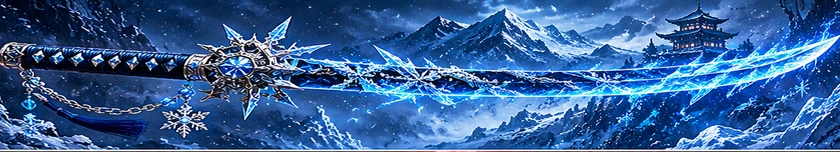
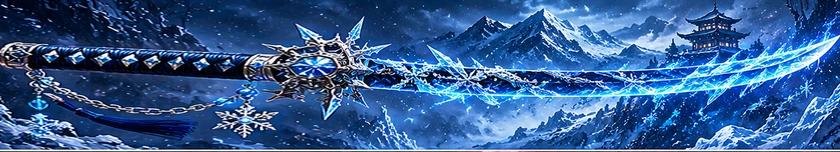
Refine model-specific blade masks and verify every animation variant

diff --git a/tests/unit/test_katana_widget.py b/tests/unit/test_katana_widget.py
@@ -369,3 +369,31 @@ async def test_profile_upgrade_uses_same_animation_without_repeating_economy():
     service.upgrade_katana.assert_awaited_once_with(7)
     send.assert_awaited_once()
     assert send.call_args.kwargs['animate'] is True
+
+
+@pytest.mark.asyncio
+async def test_cancelled_request_keeps_render_slot_until_thread_finishes():
+    import asyncio
+    import threading
+    from src.bot.presenters.katana_presenter import render_receipt
+    started = threading.Event()
+    finish = threading.Event()
+    def render(_):
+        started.set()
+        finish.wait(timeout=5)
+        return b'done'
+    semaphore = asyncio.Semaphore(1)
+    with patch('src.bot.presenters.katana_presenter.RENDER_SLOTS', semaphore):
+        task = asyncio.create_task(render_receipt(render, None))
+        try:
+            await asyncio.to_thread(started.wait, 2)
+            assert started.is_set()
+            task.cancel()
+            with pytest.raises(asyncio.CancelledError):
+                await task
+            assert semaphore.locked()
+        finally:
+            finish.set()
+            # Completion callback, not cancellation, must release this slot.
+            await asyncio.wait_for(semaphore.acquire(), timeout=3)
+            semaphore.release()

diff --git a/src/widgets/forge.py b/src/widgets/forge.py
@@ -35,9 +35,18 @@ def katana_layers(school):
     art = katana_art(school).convert("RGBA")
     mask = Image.new("L", art.size)
     md = ImageDraw.Draw(mask)
-    md.polygon([(8, 47), (285, 44), (306, 12), (352, 17), (369, 58),
-                (828, 44), (807, 78), (350, 105), (342, 138),
-                (298, 136), (284, 104), (8, 98)], fill=255)
+    # Individual blade profiles measured in normalized panel coordinates.
+    # A separate rounded guard mask avoids the old angular cutout at the hilt.
+    profiles = (
+        (63,101,58), (69,105,54), (75,107,57), (73,107,57), (72,109,59),
+        (66,101,55), (68,107,55), (72,109,57), (69,105,56), (72,109,59),
+        (71,110,46), (70,114,41), (72,112,49), (77,117,51), (69,111,47),
+    )
+    top, bottom, tip = profiles[school]
+    md.rounded_rectangle((7, 45, 302, 102), radius=13, fill=255)
+    md.ellipse((277, 15, 370, 138), fill=255)
+    md.polygon([(335, top), (560, top+2), (725, top-4), (839, tip),
+                (817, tip+21), (745, bottom-13), (560, bottom), (335, bottom)], fill=255)
     art.putalpha(mask.filter(ImageFilter.GaussianBlur(2.0)))
     return art.crop((0, 0, 340, art.height)), art.crop((340, 0, art.width, art.height))
 

diff --git a/docs/KATANA_MODELS.md b/docs/KATANA_MODELS.md
@@ -36,3 +36,16 @@
 старая модель плавно заменяется новой в фазе закалки; финальные цифры неизменны.
 Просмотр отправляет готовый локальный WebP без Pillow и очереди GIF, показывает
 полуоткрытый диапазон и остаток до следующей модели. Экономика не менялась.
+
+## Повторный дизайн- и технический проход
+
+- Для последнего листа из пяти моделей отдельно откалиброван стык рукояти и
+  лезвия (26% панели, а не 34,5% как у первых двух листов).
+- Вместо одной угловатой маски используются 15 профилей лезвий и отдельная
+  округлая область гарды. Это всё ещё геометрические маски, не точная обтравка.
+- Сгенерированы и декодированы все 30 вариантов GIF: 15 моделей × успех/неудача.
+  Локально: 1,876–2,452 s, 303493–440882 байт. Проверены габариты 760×320,
+  число кадров и финальная выдержка ≥1400 ms. Это не замер загрузки Telegram.
+- Добавлена проверка отмены: CPU-слот освобождается после реального завершения
+  потока, а не при отмене ожидающего запроса.
+- Полный прогон: 727 passed, 52 skipped, 2 xfailed, 2 warnings.
